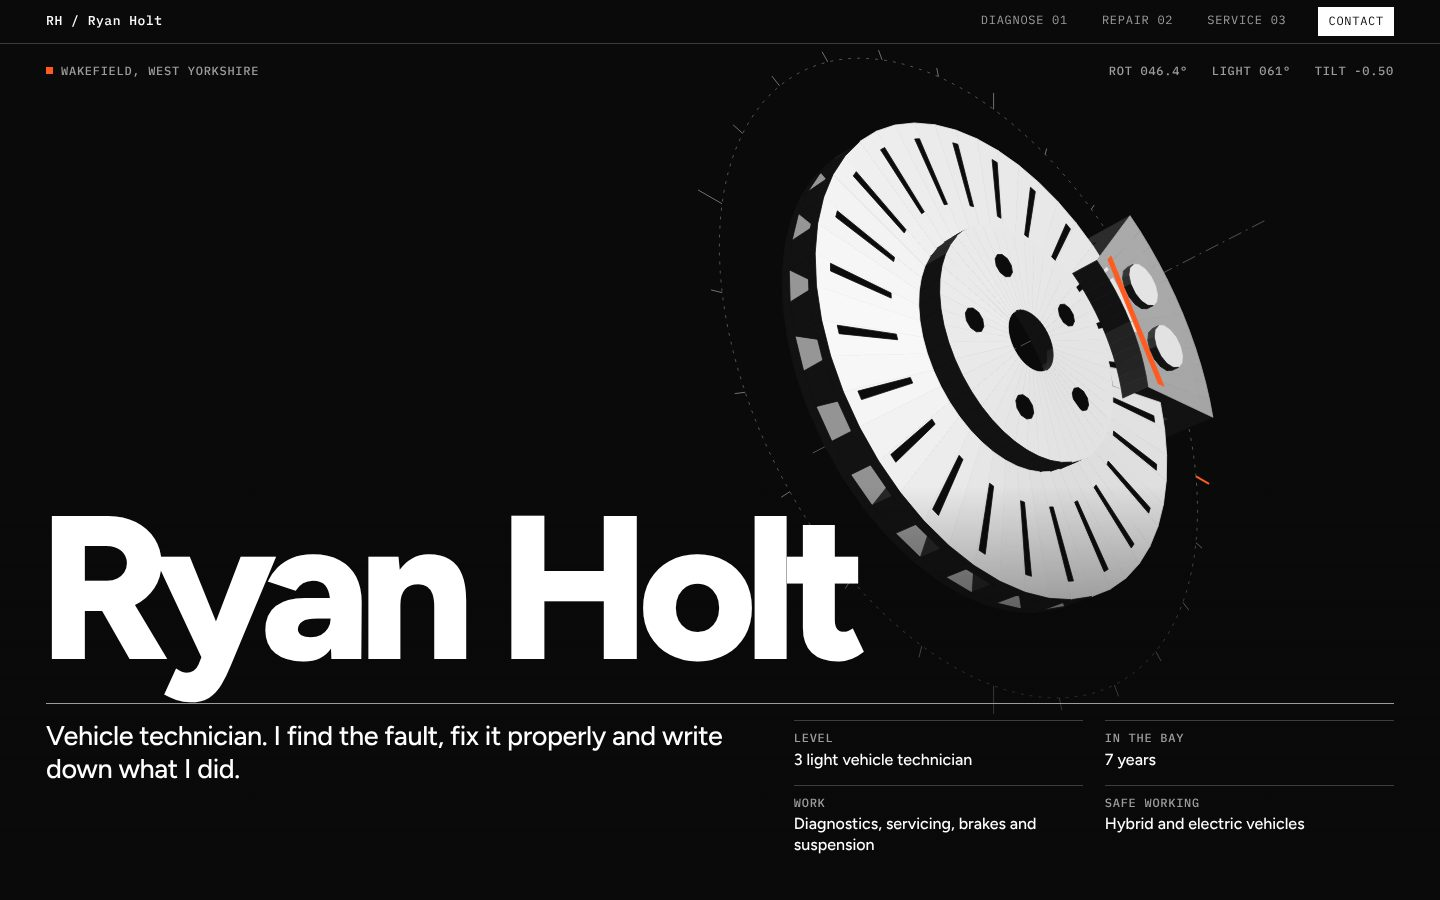
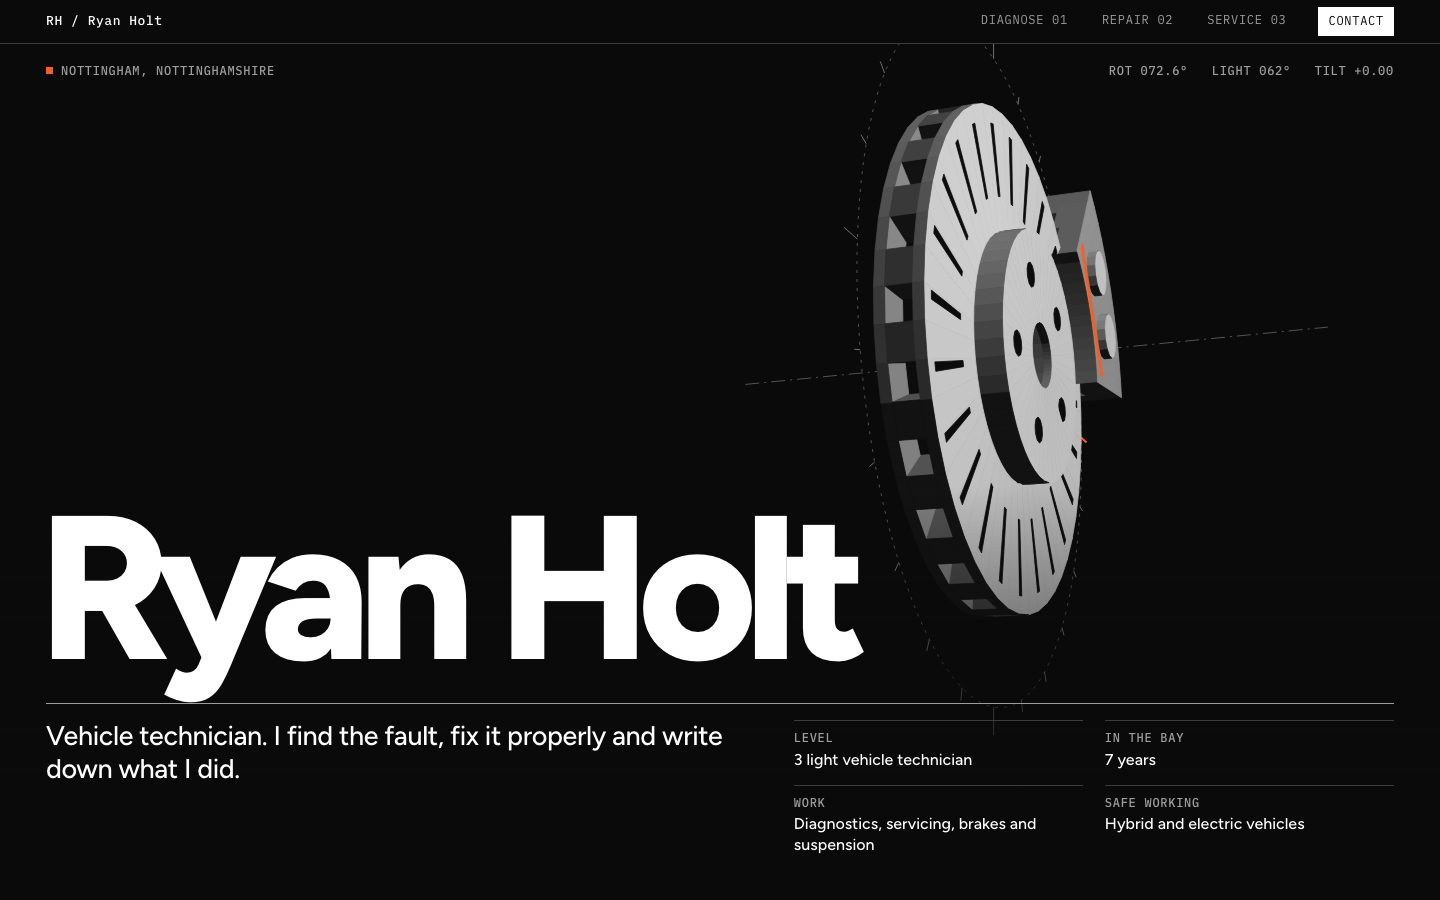
Designs: Bradford and Wakefield become Birmingham, Leicester and Nottingham (Ashby stays in Leeds with Huddersfield and York)

Changed region(s): [[0.5312, 0.0933, 0.8438, 0.6844], [0.0312, 0.0622, 0.1875, 0.0933]]

diff --git a/site/public/concepts/imran/index.html b/site/public/concepts/imran/index.html
@@ -2,7 +2,7 @@
 <html lang="en-GB"><head><meta charset="utf-8"><meta name="viewport" content="width=device-width, initial-scale=1, viewport-fit=cover">
 <meta name="robots" content="noindex,nofollow">
 <title>Imran Shah, customer service team leader (concept portfolio)</title>
-<meta name="description" content="Concept portfolio for Imran Shah, a customer service team leader in Bradford.">
+<meta name="description" content="Concept portfolio for Imran Shah, a customer service team leader in Leicester.">
 <style>
 @font-face{font-family:Disp;src:url(../fonts/lilita-one-latin-400-normal.woff2) format("woff2");font-weight:400;font-display:swap}
 @font-face{font-family:Hand;src:url(../fonts/caveat-latin-500-normal.woff2) format("woff2");font-weight:500;font-display:swap}
@@ -291,7 +291,7 @@ footer .fine{font-family:Inter,sans-serif;font-size:13px;letter-spacing:0;margin
       <span class="tag" style="--c:var(--blue-t);left:-96px;top:-28px;transform:rotate(-6deg)">Team leader</span>
       <span class="tag" style="--c:var(--butter);right:-150px;top:-22px;transform:rotate(4deg)">Calm on escalations</span>
       <span class="tag" style="--c:var(--red-t);left:14px;bottom:-62px;transform:rotate(3deg)">Rota nerd</span>
-      <span class="tag" style="--c:var(--blue);--cc:#fff;color:#fff;right:14px;bottom:-62px;transform:rotate(-5deg)">Bradford</span>
+      <span class="tag" style="--c:var(--blue);--cc:#fff;color:#fff;right:14px;bottom:-62px;transform:rotate(-5deg)">Leicester</span>
       <div class="namebox"><h1>Imran<br>Shah</h1><div class="status"><i></i>Now serving <span id="nowNo">#0427</span> &middot; open to team lead roles</div></div>
     </div>
     <h2 class="line">I lead customer service teams that <span class="red">help people properly</span> &#10033;</h2>
@@ -321,14 +321,14 @@ footer .fine{font-family:Inter,sans-serif;font-size:13px;letter-spacing:0;margin
   <div class="wrap">
     <h2 class="big">About</h2>
     <div class="grid">
-      <div class="side"><span class="chip" style="--c:var(--butter)">Profile</span><span class="chip" style="--c:var(--red)">How I lead</span><span class="chip" style="--c:var(--blue);--cc:#fff">Bradford</span></div>
+      <div class="side"><span class="chip" style="--c:var(--butter)">Profile</span><span class="chip" style="--c:var(--red)">How I lead</span><span class="chip" style="--c:var(--blue);--cc:#fff">Leicester</span></div>
       <div class="notebox">
         <span class="label" style="--c:var(--butter)">Main bio</span>
         <figure class="tk " style=""><span class="tape" style="left:40px;top:-14px;transform:rotate(-3deg)"></span><div class="tk-in"><div class="ph"><img src="img/imran.webp" width="900" height="1200" alt="Imran smiling in a rust-coloured cap on a city street" style="object-position:48% 28%;transform:scale(1.5)"></div><div class="stub" style="--c:var(--red-t)"><b class="px">#0429</b><span class="hand">hi again</span></div></div></figure>
         <p class="hand">I'm a customer service team leader who gets a bit too excited about making a busy contact centre feel calm.</p>
         <p class="sm">I lead a team of advisers handling phone, email and chat for a home services company. I coach people one to one, plan the rota around real demand, and step in when a customer is upset and needs someone to listen first.</p>
         <p class="sm">I like fixing the small things that cause big queues: a confusing script, a clumsy CRM field, a handover that always gets lost. I write them down, try a fix with the team and keep what helps.</p>
-        <p class="sm" style="margin-bottom:0">Away from the desk I'm usually walking round Bradford with a flat white, or cooking for far too many people.</p>
+        <p class="sm" style="margin-bottom:0">Away from the desk I'm usually walking round Leicester with a flat white, or cooking for far too many people.</p>
       </div>
     </div>
     <div class="compet">
@@ -349,7 +349,7 @@ footer .fine{font-family:Inter,sans-serif;font-size:13px;letter-spacing:0;margin
     <div class="roles">
       <article class="role"><i class="dim"></i>
         <div class="when" style="--c:var(--butter)"><span class="px">2022 &ndash; now</span><span class="hand">current page</span></div>
-        <div class="what"><h3>Customer service team leader</h3><span class="co">Calderbrook Home Services, Bradford</span>
+        <div class="what"><h3>Customer service team leader</h3><span class="co">Calderbrook Home Services, Leicester</span>
           <ul><li>Lead a team of twelve advisers across phone, email and chat.</li><li>Run weekly one to ones, call reviews and a short team huddle every morning.</li><li>Build the weekly rota and adjust it when demand shifts.</li><li>Take escalated complaints and agree the next step with the customer.</li></ul></div>
       </article>
       <article class="role"><i class="dim"></i>
@@ -359,12 +359,12 @@ footer .fine{font-family:Inter,sans-serif;font-size:13px;letter-spacing:0;margin
       </article>
       <article class="role"><i class="dim"></i>
         <div class="when" style="--c:var(--blue-t)"><span class="px">2017 &ndash; 2019</span><span class="hand">learning the ropes</span></div>
-        <div class="what"><h3>Customer service adviser</h3><span class="co">Brightwell Broadband, Bradford</span>
+        <div class="what"><h3>Customer service adviser</h3><span class="co">Brightwell Broadband, Leicester</span>
           <ul><li>Answered billing and fault calls and logged each one clearly in the CRM.</li><li>Passed hard cases to the right specialist with the full story attached.</li><li>Helped trial the new live chat channel with the first group of advisers.</li></ul></div>
       </article>
       <article class="role"><i class="dim"></i>
         <div class="when" style="--c:var(--red-t)"><span class="px">2015 &ndash; 2017</span><span class="hand">where it started</span></div>
-        <div class="what"><h3>Retail assistant, then shift supervisor</h3><span class="co">Park Street Electricals, Bradford</span>
+        <div class="what"><h3>Retail assistant, then shift supervisor</h3><span class="co">Park Street Electricals, Leicester</span>
           <ul><li>Served customers on the shop floor and handled returns at the till.</li><li>Opened and closed the shop and set tasks for the weekend team.</li></ul></div>
       </article>
     </div>
@@ -526,10 +526,10 @@ footer .fine{font-family:Inter,sans-serif;font-size:13px;letter-spacing:0;margin
     <div class="two2">
       <div class="panel edu">
         <h3 style="--c:var(--blue);--cc:#fff"><i></i>Education and qualifications</h3>
-        <div class="item"><strong>Level 3 Diploma in Customer Service</strong><span>Bradford College, 2016</span></div>
+        <div class="item"><strong>Level 3 Diploma in Customer Service</strong><span>Leicester College, 2016</span></div>
         <div class="item"><strong>Institute of Leadership and Management, Level 3</strong><span>Team leading, 2021</span></div>
         <div class="item"><strong>Mental health first aid, one day course</strong><span>Workplace training, 2023</span></div>
-        <div class="item"><strong>A levels in Business and English</strong><span>Bradford Sixth Form, 2015</span></div>
+        <div class="item"><strong>A levels in Business and English</strong><span>Leicester Sixth Form, 2015</span></div>
       </div>
       <div class="panel langs" style="box-shadow:6px 6px 0 var(--butter)">
         <h3 style="--c:var(--red)"><i></i>Languages</h3>
@@ -542,7 +542,7 @@ footer .fine{font-family:Inter,sans-serif;font-size:13px;letter-spacing:0;margin
   </div>
 </section>
 
-<div class="band b2" aria-hidden="true"><div class="row" data-dir="-1"><span>Next in the queue</span><em>&#10033;</em><span>Ticket closed</span><em>&#10033;</em><span>Thanks for waiting</span><em>&#10033;</em><span>Anything else?</span><em>&#10033;</em><span>Next in the queue</span><em>&#10033;</em><span>Ticket closed</span><em>&#10033;</em><span>Thanks for waiting</span><em>&#10033;</em><span>Anything else?</span><em>&#10033;</em></div><div class="row r2" data-dir="1"><span>Hello, Bradford</span><em>&#9829;</em><span>Pull up a chair</span><em>&#9829;</em><span>Kettle on</span><em>&#9829;</em><span>Let's talk</span><em>&#9829;</em><span>Hello, Bradford</span><em>&#9829;</em><span>Pull up a chair</span><em>&#9829;</em><span>Kettle on</span><em>&#9829;</em><span>Let's talk</span><em>&#9829;</em></div></div>
+<div class="band b2" aria-hidden="true"><div class="row" data-dir="-1"><span>Next in the queue</span><em>&#10033;</em><span>Ticket closed</span><em>&#10033;</em><span>Thanks for waiting</span><em>&#10033;</em><span>Anything else?</span><em>&#10033;</em><span>Next in the queue</span><em>&#10033;</em><span>Ticket closed</span><em>&#10033;</em><span>Thanks for waiting</span><em>&#10033;</em><span>Anything else?</span><em>&#10033;</em></div><div class="row r2" data-dir="1"><span>Hello, Leicester</span><em>&#9829;</em><span>Pull up a chair</span><em>&#9829;</em><span>Kettle on</span><em>&#9829;</em><span>Let's talk</span><em>&#9829;</em><span>Hello, Leicester</span><em>&#9829;</em><span>Pull up a chair</span><em>&#9829;</em><span>Kettle on</span><em>&#9829;</em><span>Let's talk</span><em>&#9829;</em></div></div>
 <section class="talk" id="contact">
   <figure class="bub l tl" style=""><div class="ph"><img src="img/imran-3.webp" width="900" height="1200" alt="Imran laughing in a kitchen holding a mug of coffee" style="object-position:50% 20%;transform:scale(1.4);"></div><figcaption>say hi</figcaption></figure>
   <figure class="tk r" style=""><span class="tape" style="left:55px;top:-14px;transform:rotate(5deg)"></span><div class="tk-in"><div class="ph"><img src="img/imran-4.webp" width="900" height="1200" alt="Imran pointing at sticky notes on a whiteboard while two colleagues look on" style="object-position:20% 40%;"></div><div class="stub" style="--c:var(--butter)"><b class="px">#0430</b><span class="hand">cuppa?</span></div></div></figure>
@@ -551,7 +551,7 @@ footer .fine{font-family:Inter,sans-serif;font-size:13px;letter-spacing:0;margin
     <h2 class="big">Let's <span class="acc">talk</span></h2>
     <p class="sub">Got a team that needs a steady lead, or a process that needs a fresh pair of eyes? I read every message.</p>
     <div class="ctc"><span class="tape"></span><h3>Say hello</h3><p>Tell me a bit about the team and what you'd like help with. I reply within two working days.</p><a class="mail" href="mailto:hello@imranshah.example">hello@imranshah.example</a><a class="btn" href="mailto:hello@imranshah.example?subject=Hello%20Imran">Send an email</a></div>
-    <p class="hand" style="font-size:27px;margin-top:34px;color:var(--ink2)">Open to team lead and operations roles in Bradford, Leeds and remote.</p>
+    <p class="hand" style="font-size:27px;margin-top:34px;color:var(--ink2)">Open to team lead and operations roles in Leicester, Nottingham and remote.</p>
     <div class="socials"><a class="pill" href="#" style="--c:var(--blue)"><i></i>LinkedIn</a><a class="pill" href="#" style="--c:var(--red)"><i></i>Download CV</a><a class="pill" href="#" style="--c:var(--butter)"><i></i>Email</a></div>
   </div>
 </section>

diff --git a/site/public/concepts/ashby/index.html b/site/public/concepts/ashby/index.html
@@ -225,7 +225,7 @@ footer a{color:#fff}
 
 <div class="band" aria-hidden="true">
  <div class="r r1"><span>Rewires</span><span>Consumer units</span><span>EV chargers</span><span>Safety inspections</span><span>Lighting</span><span>Fault finding</span><span>Rewires</span><span>Consumer units</span><span>EV chargers</span><span>Safety inspections</span><span>Lighting</span><span>Fault finding</span></div>
- <div class="r r2"><span>Fixed prices</span><span>Leeds</span><span>Bradford</span><span>Wakefield</span><span>Harrogate</span><span>Fixed prices</span><span>Leeds</span><span>Bradford</span><span>Wakefield</span><span>Harrogate</span></div>
+ <div class="r r2"><span>Fixed prices</span><span>Leeds</span><span>Huddersfield</span><span>York</span><span>Harrogate</span><span>Fixed prices</span><span>Leeds</span><span>Huddersfield</span><span>York</span><span>Harrogate</span></div>
 </div>
 
 <section class="wrap sec" id="services" aria-labelledby="svc-title">
@@ -297,9 +297,9 @@ footer a{color:#fff}
 <section class="wrap sec areas" id="areas" aria-labelledby="areas-title">
  <div>
   <p class="label">Areas we cover</p>
-  <h2 id="areas-title" class="disp split">Based in Leeds, out across West Yorkshire.</h2>
+  <h2 id="areas-title" class="disp split">Based in Leeds, out across Yorkshire.</h2>
   <p class="intro">We work within about 30 minutes of our Leeds workshop.</p>
-  <ul class="chips"><li>Leeds</li><li>Bradford</li><li>Wakefield</li><li>Harrogate</li></ul>
+  <ul class="chips"><li>Leeds</li><li>Huddersfield</li><li>York</li><li>Harrogate</li></ul>
  </div>
  <div class="map" aria-hidden="true">
   <svg viewBox="0 0 400 400">
@@ -311,8 +311,8 @@ footer a{color:#fff}
     <path data-route pathLength="1" d="M210 210c4-36 8-70 6-108"/>
    </g>
    <g class="pin"><circle cx="210" cy="210" r="16" fill="#FFB703" stroke="#0B2545" stroke-width="3"/><text x="160" y="248">Leeds</text></g>
-   <g class="pin"><circle cx="110" cy="200" r="8" fill="#0B2545"/><text x="64" y="232">Bradford</text></g>
-   <g class="pin"><circle cx="250" cy="294" r="8" fill="#0B2545"/><text x="266" y="300">Wakefield</text></g>
+   <g class="pin"><circle cx="110" cy="200" r="8" fill="#0B2545"/><text x="64" y="232">Huddersfield</text></g>
+   <g class="pin"><circle cx="250" cy="294" r="8" fill="#0B2545"/><text x="266" y="300">York</text></g>
    <g class="pin"><circle cx="216" cy="102" r="8" fill="#0B2545"/><text x="128" y="92">Harrogate</text></g>
   </svg>
  </div>
@@ -339,7 +339,7 @@ footer a{color:#fff}
   <div class="cols">
    <div><h3>Ashby Electrical</h3><p>Electricians in Leeds. Fixed quotes from a photo, within 24 hours.</p></div>
    <div><h3>Hours</h3><ul><li>Mon to Fri, 8am to 6pm</li><li>Sat, by arrangement</li></ul></div>
-   <div><h3>Areas</h3><ul><li>Leeds</li><li>Bradford</li><li>Wakefield</li><li>Harrogate</li></ul></div>
+   <div><h3>Areas</h3><ul><li>Leeds</li><li>Huddersfield</li><li>York</li><li>Harrogate</li></ul></div>
    <div><h3>Contact</h3><ul><li><a href="tel:01134960418">0113 496 0418</a></li><li><a href="mailto:hello@ashby-electrical.example">hello@ashby-electrical.example</a></li></ul></div>
   </div>
   <p class="big" aria-hidden="true">Fixed <em>price.</em></p>

diff --git a/site/public/concepts/spiceroute/index.html b/site/public/concepts/spiceroute/index.html
@@ -3,8 +3,8 @@
 <head>
 <meta charset="utf-8">
 <meta name="viewport" content="width=device-width, initial-scale=1, viewport-fit=cover">
-<title>Spice Route Kitchen, takeaway in Bradford (concept site)</title>
-<meta name="description" content="Concept one-page website for Spice Route Kitchen, a sample takeaway in Bradford: tonight's favourites with prices, call to order and collect.">
+<title>Spice Route Kitchen, takeaway in Nottingham (concept site)</title>
+<meta name="description" content="Concept one-page website for Spice Route Kitchen, a sample takeaway in Nottingham: tonight's favourites with prices, call to order and collect.">
 <meta name="robots" content="noindex,nofollow">
 <style>
 @font-face{font-family:'Lilita One';font-style:normal;font-weight:400;font-display:swap;src:url(../fonts/lilita-one-latin-400-normal.woff2) format('woff2')}
@@ -137,7 +137,7 @@ footer .bot{display:flex;flex-wrap:wrap;justify-content:space-between;gap:12px;f
 <main>
 <section class="wrap hero" aria-labelledby="hero-title">
  <div>
-  <p class="label" data-in>Spice Route Kitchen · Bradford</p>
+  <p class="label" data-in>Spice Route Kitchen · Nottingham</p>
   <h1 id="hero-title" class="disp" style="margin-top:14px">Order direct. <em>Skip the app fees.</em></h1>
   <p class="lede" data-in>Fresh from our kitchen. Ring your order through and it's ready to collect in about 20 minutes.</p>
   <div class="cta" data-in>
@@ -215,7 +215,7 @@ footer .bot{display:flex;flex-wrap:wrap;justify-content:space-between;gap:12px;f
 <section class="visit" aria-labelledby="visit-title">
  <div class="wrap sec">
   <p class="label">Find us</p>
-  <h2 id="visit-title" class="disp split">Bradford, BD3.</h2>
+  <h2 id="visit-title" class="disp split">Nottingham, NG7.</h2>
   <div class="grid">
    <div class="box"><h3>Opening hours</h3><ul><li><span>Monday</span><span>Closed</span></li><li><span>Tue to Thu</span><span>5pm to 11pm</span></li><li><span>Fri and Sat</span><span>5pm to midnight</span></li><li><span>Sunday</span><span>5pm to 10pm</span></li></ul></div>
    <div class="box"><h3>Get in touch</h3><ul><li><span>Phone</span><a href="tel:01632960274">01632 960274</a></li><li><span>Email</span><a href="mailto:hello@spice-route-kitchen.example">Email us</a></li><li><span>Parking</span><span>On the street</span></li></ul></div>

diff --git a/site/public/concepts/dan/index.html b/site/public/concepts/dan/index.html
@@ -5,7 +5,7 @@
 <meta name="viewport" content="width=device-width, initial-scale=1, viewport-fit=cover">
 <title>Dan Okafor, construction site manager (concept portfolio)</title>
 <meta name="robots" content="noindex,nofollow">
-<meta name="description" content="Concept portfolio for Dan Okafor, a fictional construction site manager in Bradford.">
+<meta name="description" content="Concept portfolio for Dan Okafor, a fictional construction site manager in Birmingham.">
 <style>
 @font-face{font-family:'Big Shoulders Display';font-style:normal;font-weight:600;font-display:swap;src:url(../fonts/big-shoulders-display-latin-600-normal.woff2) format('woff2')}
 @font-face{font-family:'Big Shoulders Display';font-style:normal;font-weight:800;font-display:swap;src:url(../fonts/big-shoulders-display-latin-800-normal.woff2) format('woff2')}
@@ -211,7 +211,7 @@ a{color:inherit}
     </div>
 
     <div class="mid">
-      <p class="kick">Construction site manager · Bradford</p>
+      <p class="kick">Construction site manager · Birmingham</p>
       <h1 class="word" id="name"><span>Dan</span><span class="sp"></span><span>Okafor</span></h1>
     </div>
 
@@ -300,7 +300,7 @@ a{color:inherit}
     <a class="c-big" id="cbig" href="mailto:dan@danokafor.example?subject=Site%20manager%20role">Talk to Dan</a>
     <div class="c-row">
       <div><h3>Email</h3><a class="c-mail" href="mailto:dan@danokafor.example">dan@danokafor.example</a></div>
-      <div><h3>Based</h3><p>Bradford, West Yorkshire. Happy to travel across the north of England for the right job.</p></div>
+      <div><h3>Based</h3><p>Birmingham, West Midlands. Happy to travel across the north of England for the right job.</p></div>
       <div><h3>Useful to include</h3><ul><li>Type of work and rough value</li><li>Start date and programme length</li><li>Where the site is</li></ul></div>
     </div>
     <div class="foot"><span>Dan Okafor · Available from spring 2027</span><span>Fictional person for a concept site</span></div>

diff --git a/site/src/data/portfolioConcepts.ts b/site/src/data/portfolioConcepts.ts
@@ -68,7 +68,7 @@ export const portfolioConcepts: PortfolioConcept[] = [
   {
     slug: 'imran',
     name: 'Imran Shah',
-    role: 'Customer service team leader, Bradford',
+    role: 'Customer service team leader, Leicester',
     field: 'Operations',
     shows:
       'A scrapbook of speech bubbles and queue tickets, with moving type bands and a before-and-after script.',
@@ -167,7 +167,7 @@ export const portfolioConcepts: PortfolioConcept[] = [
   {
     slug: 'dan',
     name: 'Dan Okafor',
-    role: 'Construction site manager, Bradford',
+    role: 'Construction site manager, Birmingham',
     field: 'Trades',
     shows: 'Giant outline menu words that fill in and change the moving site scene behind them.',
     alt: 'The Dan Okafor example portfolio: a duotone construction scene behind his name and huge outlined menu words.',
@@ -208,7 +208,7 @@ export const portfolioConcepts: PortfolioConcept[] = [
   {
     slug: 'ryan',
     name: 'Ryan Holt',
-    role: 'Vehicle technician, Wakefield',
+    role: 'Vehicle technician, Nottingham',
     field: 'Trades',
     shows: 'A 3D brake assembly that turns under a moving light and tilts with your cursor.',
     alt: 'The Ryan Holt example portfolio: a black and grey page with a 3D-shaded mechanical part under hard light.',
@@ -330,7 +330,7 @@ export const businessSiteConcepts: PortfolioConcept[] = [
   {
     slug: 'spiceroute',
     name: 'Spice Route Kitchen',
-    role: 'Takeaway, Bradford',
+    role: 'Takeaway, Nottingham',
     field: 'Food',
     shows:
       'Built on Essential: one page with tonight’s favourites, prices, allergens, hours and a big call button.',

diff --git a/site/public/concepts/ryan/index.html b/site/public/concepts/ryan/index.html
@@ -199,7 +199,7 @@ table.spec{width:100%;border-collapse:collapse}
 <section class="hero" aria-labelledby="name">
   <canvas id="c0" role="img" aria-label="A ventilated brake disc with caliper turning slowly while a hard light moves across the metal. Move the cursor to tilt it."></canvas>
   <div class="hero-top mono" aria-hidden="true">
-    <div><i class="live"></i>Wakefield, West Yorkshire</div>
+    <div><i class="live"></i>Nottingham, Nottinghamshire</div>
     <div class="r" id="t0">ROT 000.0&deg; &nbsp; LIGHT 000&deg; &nbsp; TILT +0.00</div>
   </div>
   <div class="hero-in">
@@ -367,8 +367,8 @@ table.spec{width:100%;border-collapse:collapse}
   <h2 id="h-contact">Got a fault that won't behave?</h2>
   <a class="mail" id="mail" href="mailto:ryan@ryanholt.example" data-hov>ryan@ryanholt.example</a>
   <dl class="c-grid">
-    <div><dt class="mono">Based</dt><dd>Wakefield, West Yorkshire</dd></div>
-    <div><dt class="mono">Looking for</dt><dd>Light vehicle technician roles within reach of Wakefield, Leeds and Barnsley.</dd></div>
+    <div><dt class="mono">Based</dt><dd>Nottingham, Nottinghamshire</dd></div>
+    <div><dt class="mono">Looking for</dt><dd>Light vehicle technician roles within reach of Nottingham, Derby and Leicester.</dd></div>
     <div><dt class="mono">Reply</dt><dd>By email, usually the same working day.</dd></div>
   </dl>
   <footer class="foot mono"><span>Ryan Holt, concept portfolio</span><a href="#top">Back to top</a></footer>

diff --git a/site/public/concepts/nadia/index.html b/site/public/concepts/nadia/index.html
@@ -590,7 +590,7 @@ footer .in{max-width:1400px;margin:0 auto;padding:0 var(--gap);display:flex;just
       </ul>
     </article>
     <article class="role" data-hot>
-      <div class="yrs">2018<small>to 2020 &middot; Wakefield</small></div>
+      <div class="yrs">2018<small>to 2020 &middot; Leicester</small></div>
       <div><h3>Junior analyst</h3><p>Fenwick Health Partners</p></div>
       <ul>
         <li>Prepared anonymised extracts for service planning teams.</li>

diff --git a/site/src/data/cities.ts b/site/src/data/cities.ts
@@ -91,7 +91,7 @@ export const cities: Record<CityKey, City> = {
         'No one can promise rankings or a mention in AI answers, and we never will. We do the groundwork, show you how to check where you appear, and tell you honestly what we find.',
       ],
     },
-    concepts: ['ashby', 'northgate', 'spiceroute', 'brightsquare', 'atelierrose'],
+    concepts: ['ashby', 'northgate', 'brightsquare', 'atelierrose'],
     areas: [
       'Leeds',
       'Bradford',
